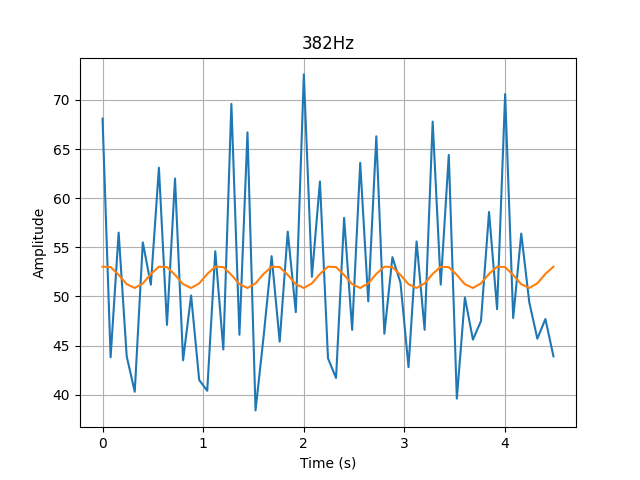
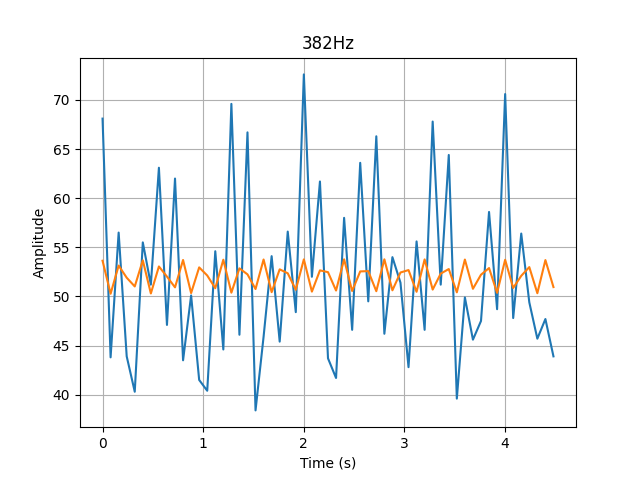
merdas

Changed region(s): [[0.1562, 0.5312, 0.875, 0.625]]

diff --git a/som/graficos.py b/som/graficos.py
@@ -35,6 +35,7 @@ params, covariance = curve_fit(func328, t, luma, p0=p0)
 
 # extrair parametros
 a, w, b, c = params
+w_328 = w
 
 plt.plot(data328['t'], data328['luma'])
 plt.plot(t, func328(t, a, w, b, c), label='fit')
@@ -42,7 +43,7 @@ plt.xlabel('Time (s)')
 plt.ylabel('Amplitude')
 plt.title('328Hz')
 plt.grid(True)
-plt.savefig('328Hz.png')
+plt.savefig('som/328Hz.png')
 plt.show()
 
 ### Gráfico 334Hz
@@ -58,6 +59,7 @@ params, covariance = curve_fit(func334, t, luma, p0=p0)
 
 # extrair parametros
 a, w, b, c = params
+w_334 = w
 
 plt.plot(data334['t'], data334['luma'])
 plt.plot(t, func334(t, a, w, b, c), label='fit')
@@ -65,7 +67,7 @@ plt.xlabel('Time (s)')
 plt.ylabel('Amplitude')
 plt.title('334Hz')
 plt.grid(True)
-plt.savefig('334Hz.png')
+plt.savefig('som/334Hz.png')
 plt.show()
 
 ### Gráfico 340Hz
@@ -81,6 +83,7 @@ params, covariance = curve_fit(func340, t, luma, p0=p0)
 
 # extrair parametros
 a, w, b, c = params
+w_340 = w
 
 plt.plot(data340['t'], data340['luma'])
 plt.plot(t, func340(t, a, w, b, c), label='fit')
@@ -88,7 +91,7 @@ plt.xlabel('Time (s)')
 plt.ylabel('Amplitude')
 plt.title('340Hz')
 plt.grid(True)
-plt.savefig('340Hz.png')
+plt.savefig('som/340Hz.png')
 plt.show()
 
 ### Gráfico 346Hz
@@ -104,6 +107,7 @@ params, covariance = curve_fit(func346, t, luma, p0=p0)
 
 # extrair parametros
 a, w, b, c = params
+w_346 = w
 
 plt.plot(data346['t'], data346['luma'])
 plt.plot(t, func346(t, a, w, b, c), label='fit')
@@ -111,7 +115,7 @@ plt.xlabel('Time (s)')
 plt.ylabel('Amplitude')
 plt.title('346Hz')
 plt.grid(True)
-plt.savefig('346Hz.png')
+plt.savefig('som/346Hz.png')
 plt.show()
 
 ### Gráfico 352Hz
@@ -127,6 +131,7 @@ params, covariance = curve_fit(func352, t, luma, p0=p0)
 
 # extrair parametros
 a, w, b, c = params
+w_352 = w
 
 plt.plot(data352['t'], data352['luma'])
 plt.plot(t, func352(t, a, w, b, c), label='fit')
@@ -134,7 +139,7 @@ plt.xlabel('Time (s)')
 plt.ylabel('Amplitude')
 plt.title('352Hz')
 plt.grid(True)
-plt.savefig('352Hz.png')
+plt.savefig('som/352Hz.png')
 plt.show()
 
 ### Gráfico 354Hz
@@ -150,6 +155,7 @@ params, covariance = curve_fit(func354, t, luma, p0=p0)
 
 # extrair parametros
 a, w, b, c = params
+w_354 = w
 
 plt.plot(data354['t'], data354['luma'])
 plt.plot(t, func354(t, a, w, b, c), label='fit')
@@ -157,7 +163,7 @@ plt.xlabel('Time (s)')
 plt.ylabel('Amplitude')
 plt.title('354Hz')
 plt.grid(True)
-plt.savefig('354Hz.png')
+plt.savefig('som/354Hz.png')
 plt.show()
 
 ### Gráfico 358Hz
@@ -173,6 +179,7 @@ params, covariance = curve_fit(func358, t, luma, p0=p0)
 
 # extrair parametros
 a, w, b, c = params
+w_358 = w
 
 plt.plot(data358['t'], data358['luma'])
 plt.plot(t, func358(t, a, w, b, c), label='fit')
@@ -180,7 +187,7 @@ plt.xlabel('Time (s)')
 plt.ylabel('Amplitude')
 plt.title('358Hz')
 plt.grid(True)
-plt.savefig('358Hz.png')
+plt.savefig('som/358Hz.png')
 plt.show()
 
 ### Gráfico 360Hz
@@ -196,6 +203,7 @@ params, covariance = curve_fit(func360, t, luma, p0=p0)
 
 # extrair parametros
 a, w, b, c = params
+w_360 = w
 
 plt.plot(data360['t'], data360['luma'])
 plt.plot(t, func360(t, a, w, b, c), label='fit')
@@ -203,7 +211,7 @@ plt.xlabel('Time (s)')
 plt.ylabel('Amplitude')
 plt.title('360Hz')
 plt.grid(True)
-plt.savefig('360Hz.png')
+plt.savefig('som/360Hz.png')
 plt.show()
 
 ### Gráfico 362Hz
@@ -219,6 +227,7 @@ params, covariance = curve_fit(func362, t, luma, p0=p0)
 
 # extrair parametros
 a, w, b, c = params
+w_362 = w
 
 plt.plot(data362['t'], data362['luma'])
 plt.plot(t, func362(t, a, w, b, c), label='fit')
@@ -226,7 +235,7 @@ plt.xlabel('Time (s)')
 plt.ylabel('Amplitude')
 plt.title('362Hz')
 plt.grid(True)
-plt.savefig('362Hz.png')
+plt.savefig('som/362Hz.png')
 plt.show()
 
 ### Gráfico 364Hz
@@ -242,6 +251,7 @@ params, covariance = curve_fit(func364, t, luma, p0=p0)
 
 # extrair parametros
 a, w, b, c = params
+w_364 = w
 
 plt.plot(data364['t'], data364['luma'])
 plt.plot(t, func364(t, a, w, b, c), label='fit')
@@ -249,7 +259,7 @@ plt.xlabel('Time (s)')
 plt.ylabel('Amplitude')
 plt.title('364Hz')
 plt.grid(True)
-plt.savefig('364Hz.png')
+plt.savefig('som/364Hz.png')
 plt.show()
 
 ### Gráfico 370Hz
@@ -265,6 +275,7 @@ params, covariance = curve_fit(func370, t, luma, p0=p0)
 
 # extrair parametros
 a, w, b, c = params
+w_370 = w
 
 plt.plot(data370['t'], data370['luma'])
 plt.plot(t, func370(t, a, w, b, c), label='fit')
@@ -272,7 +283,7 @@ plt.xlabel('Time (s)')
 plt.ylabel('Amplitude')
 plt.title('370Hz')
 plt.grid(True)
-plt.savefig('370Hz.png')
+plt.savefig('som/370Hz.png')
 plt.show()
 
 ### Gráfico 376Hz
@@ -288,6 +299,7 @@ params, covariance = curve_fit(func376, t, luma, p0=p0)
 
 # extrair parametros
 a, w, b, c = params
+w_376 = w
 
 plt.plot(data376['t'], data376['luma'])
 plt.plot(t, func376(t, a, w, b, c), label='fit')
@@ -295,7 +307,7 @@ plt.xlabel('Time (s)')
 plt.ylabel('Amplitude')
 plt.title('376Hz')
 plt.grid(True)
-plt.savefig('376Hz.png')
+plt.savefig('som/376Hz.png')
 plt.show()
 
 ### Gráfico 382Hz
@@ -305,13 +317,14 @@ def func382(t, a, w, b, c):
 
 t = data382['t']
 luma = data382['luma']
-p0 = [-99.6, -66.9, -9.9, 75]
+p0 = [-99.6, -46.9, -10.9, 75]
 
 params, covariance = curve_fit(func382, t, luma, p0=p0)
 
 # extrair parametros
 
 a, w, b, c = params
+w_382 = w
 
 plt.plot(data382['t'], data382['luma'])
 
@@ -321,7 +334,7 @@ plt.xlabel('Time (s)')
 plt.ylabel('Amplitude')
 plt.title('382Hz')
 plt.grid(True)
-plt.savefig('382Hz.png')
+plt.savefig('som/382Hz.png')
 plt.show()
 
 ### Gráfico 388Hz
@@ -338,6 +351,7 @@ params, covariance = curve_fit(func388, t, luma, p0=p0)
 
 # extrair parametros
 a, w, b, c = params
+w_388 = w
 
 plt.plot(data388['t'], data388['luma'])
 plt.plot(t, func388(t, a, w, b, c), label='fit')
@@ -345,7 +359,7 @@ plt.xlabel('Time (s)')
 plt.ylabel('Amplitude')
 plt.title('388Hz')
 plt.grid(True)
-plt.savefig('388Hz.png')
+plt.savefig('som/388Hz.png')
 plt.show()
 
 ### Gráfico 394Hz
@@ -361,6 +375,7 @@ params, covariance = curve_fit(func394, t, luma, p0=p0)
 
 # extrair parametros
 a, w, b, c = params
+w_394 = w
 
 plt.plot(data394['t'], data394['luma'])
 plt.plot(t, func394(t, a, w, b, c), label='fit')
@@ -368,7 +383,7 @@ plt.xlabel('Time (s)')
 plt.ylabel('Amplitude')
 plt.title('394Hz')
 plt.grid(True)
-plt.savefig('394Hz.png')
+plt.savefig('som/394Hz.png')
 plt.show()
 
 ### Gráfico 400Hz
@@ -384,6 +399,7 @@ params, covariance = curve_fit(func400, t, luma, p0=p0)
 
 # extrair parametros
 a, w, b, c = params
+w_400 = w
 
 plt.plot(data400['t'], data400['luma'])
 plt.plot(t, func400(t, a, w, b, c), label='fit')
@@ -391,7 +407,22 @@ plt.xlabel('Time (s)')
 plt.ylabel('Amplitude')
 plt.title('400Hz')
 plt.grid(True)
-plt.savefig('400Hz.png')
+plt.savefig('som/400Hz.png')
 plt.show()
 
-
+print('w (328Hz) = ', w_328)
+print('w (334Hz) = ', w_334)
+print('w (340Hz) = ', w_340)
+print('w (346Hz) = ', w_346)
+print('w (352Hz) = ', w_352)
+print('w (354Hz) = ', w_354)
+print('w (358Hz) = ', w_358)
+print('w (360Hz) = ', w_360)
+print('w (362Hz) = ', w_362)
+print('w (364Hz) = ', w_364)
+print('w (370Hz) = ', w_370)
+print('w (376Hz) = ', w_376)
+print('w (382Hz) = ', w_382)
+print('w (388Hz) = ', w_388)
+print('w (394Hz) = ', w_394)
+print('w (400Hz) = ', w_400)
